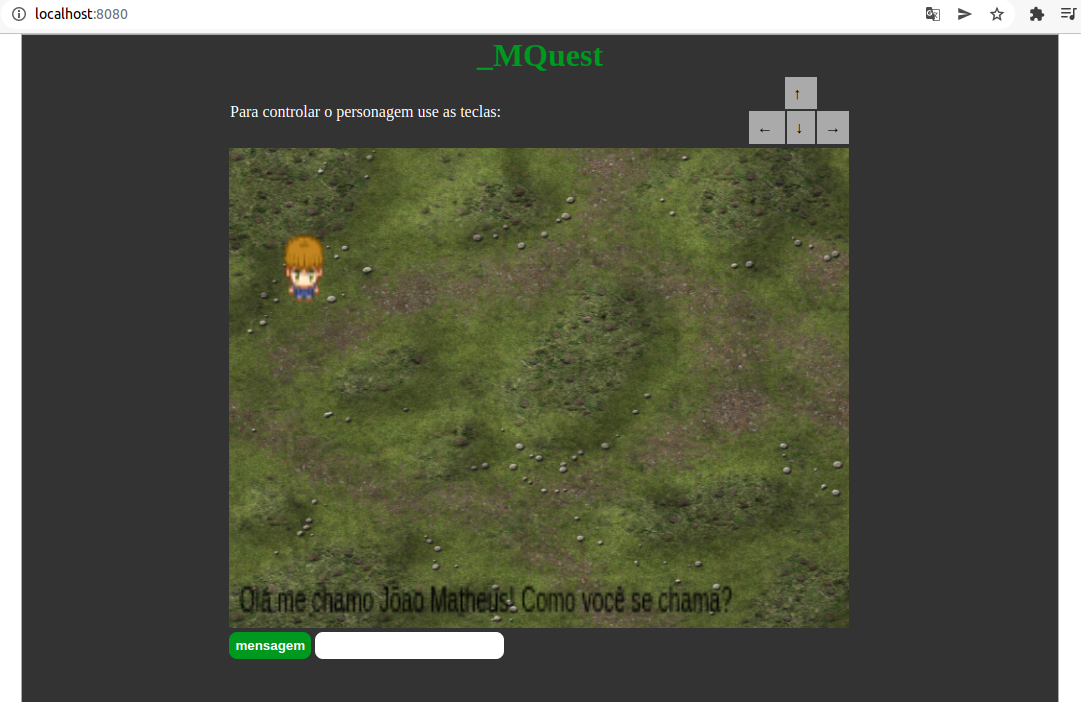
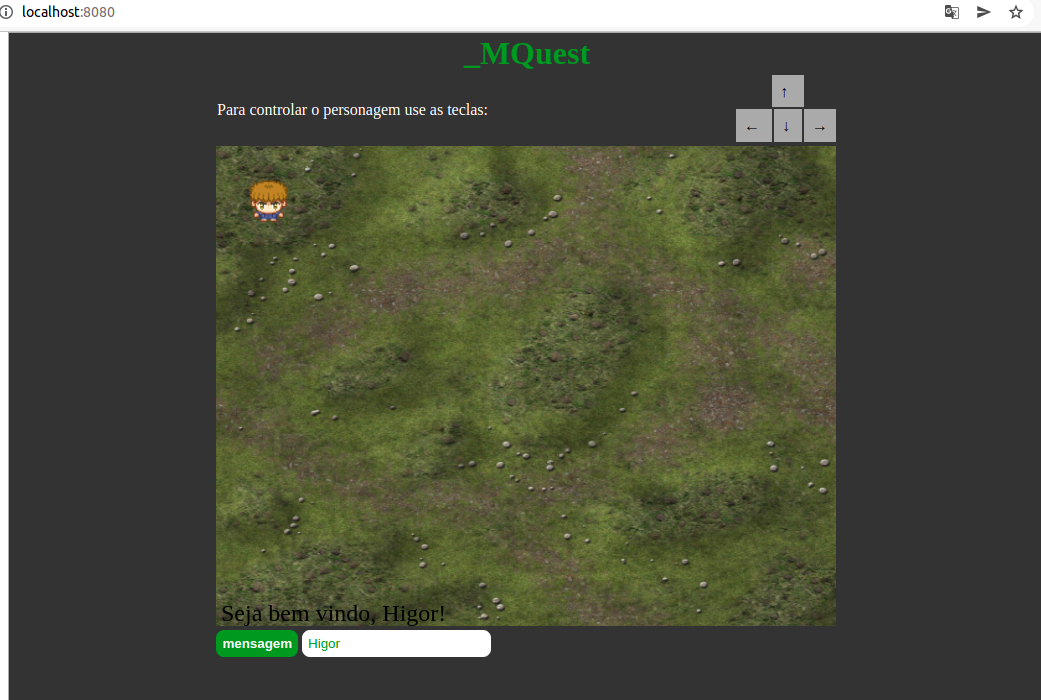
Fazendo o personagem andar (animacao)

diff --git a/js/player.js b/js/player.js
@@ -1,6 +1,10 @@
 import canvas from "./canvas.js";
 
-export default class Player{
+const PLAYER_SIZE = 48
+function sleep(ms) {
+    return new Promise(resolve => setTimeout(resolve, ms));
+}
+export default class Player {
 
     width;
     height;
@@ -9,63 +13,75 @@ export default class Player{
     ctx;
     image;
     canvas;
-
-    constructor(){
-        this.width =  64;
+    constructor() {
+        this.width = 64;
         this.height = 64;
         this.posX = 20;
         this.posY = 20;
         this.ctx = canvas.getContext().ctx;
         this.canvas = canvas.getContext().canvas;
+      
     }
 
-    init = function (index) {
+    drawPlayer = function (i, j) {
+
         this.image = new Image();
-        this.image.src = `assets/img/tile${index}.png`;
-        this.ctx.clearRect(0, 0, this.canvas.width, this.canvas.height);
-    }
-    
-    drawPlayer =  function(index) {
-        this.init(index);
+        this.image.src = `assets/img/george.png`;
         this.image.onload = () => {
-            this.ctx.drawImage(this.image, this.posX, this.posY, this.width, this.height);
+            this.ctx.clearRect(0, 0, this.canvas.width, this.canvas.height);
+            this.ctx.drawImage(this.image, i * PLAYER_SIZE, j * PLAYER_SIZE, PLAYER_SIZE, PLAYER_SIZE, this.posX, this.posY, this.width, this.height);
         }
     }
     talk = function (message) {
         this.ctx.clearRect(0, 130, this.canvas.width, this.canvas.height);
         this.ctx.fillStyle = "#000";
-        this.ctx.font = "18px Roboto bold"
-        this.ctx.fillText(message, 5, 460);
+        this.ctx.font = "24px Roboto bold"
+        this.ctx.fillText(message, 5, 475);
     }
-    moveIt = function(keyCode) {
+    async moveToUp() {
+        if (this.posY <= 20) return;
 
-        switch (keyCode) {
-            case "ArrowUp":
-                if (this.posY <= 0) return;
-                this.posX = this.posX;
-                this.posY = this.posY - 5;
-                this.drawPlayer('002');
-                break;
-            case "ArrowDown":
-                if (this.posY >= this.canvas.height-this.height) return;
-                this.posX = this.posX;
-                this.posY = this.posY + 5;
-                this.drawPlayer('000');
-                break;
-            case "ArrowLeft":
-                if (this.posX <= 0) return;
-                this.posX = this.posX -5;
-                this.posY = this.posY;
-                this.drawPlayer('001');
-                break;
-            case "ArrowRight":
-                if (this.posX >= this.canvas.width-this.width) return;
-                this.posX = this.posX +5;
-                this.posY = this.posY;
-                this.drawPlayer('003');
-                break;
-            default:
-                return;
+        for (let i = 0; i < 4; i++) {
+            await sleep(300)
+            this.posX = this.posX;
+            this.posY = this.posY - 5;
+            this.drawPlayer(2, i);
+
         }
     }
+
+    async moveToDown() {
+        if (this.posY >= this.canvas.height - (this.height+20)) return;
+
+        for (let i = 0; i < 4; i++) {
+            await sleep(300)
+            this.posX = this.posX;
+            this.posY = this.posY + 5;
+            this.drawPlayer(0, i);
+
+        }
+    }
+
+    async moveToRight() {
+        if (this.posX >= this.canvas.width - (this.width+20)) return;
+
+        for (let i = 0; i < 4; i++) {
+            await sleep(300)
+            this.posX = this.posX + 5;
+            this.posY = this.posY;
+            this.drawPlayer(3, i);
+        }
+    }
+
+    async moveToLeft() {
+        if (this.posX <= 20) return;
+        for (let i = 0; i < 4; i++) {
+            await sleep(300)
+            this.posX = this.posX - 5;
+            this.posY = this.posY;
+            this.drawPlayer(1, i);
+        }
+    }
+
+
 }

diff --git a/js/script.js b/js/script.js
@@ -1,12 +1,15 @@
 "use strict"
 
 import Player from "./player.js";
+function sleep(ms) {
+    return new Promise(resolve => setTimeout(resolve, ms));
+}
 
 function game() {
     const self = {};
     const player = new Player();
     document.addEventListener("DOMContentLoaded", function(event) {
-        player.drawPlayer('000');
+        player.drawPlayer(0,0);
         player.talk('Olá me chamo Jõao Matheus! Como você se chama?');
         self.keyboardListener();
     });
@@ -15,11 +18,23 @@ function game() {
         player.talk(`Seja bem vindo, ${text}!`);
     }
     self.keyboardListener = function() {
-       document.addEventListener("keydown", async (event)=>{
-           if(['ArrowDown','ArrowUp','ArrowLeft','ArrowRight'].indexOf(event.code) != -1) {
-               player.moveIt(event.code);
-               await new Promise(r => setTimeout(r, 500));
-           }
+       document.addEventListener("keyup",  (event)=>{
+            switch (event.code) {
+                case "ArrowUp":
+                    player.moveToUp();
+                    break;
+                case "ArrowDown":
+                    player.moveToDown();
+                    break;
+                case "ArrowLeft":
+                    player.moveToLeft();
+                    break;
+                case "ArrowRight":
+                    player.moveToRight();
+                    break;
+                default:
+                    return;
+            }
        })
     }
     
